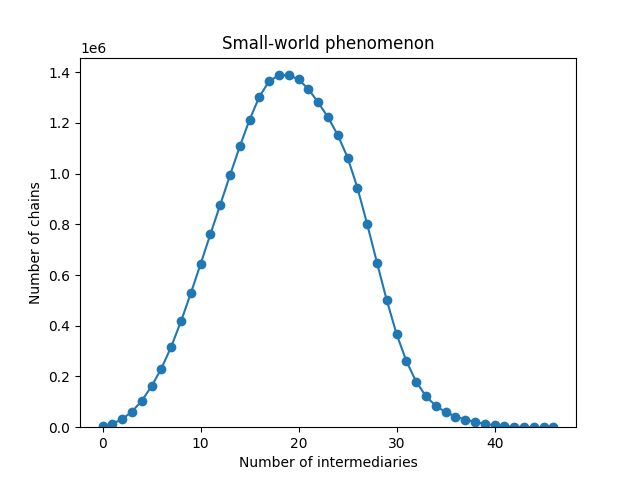
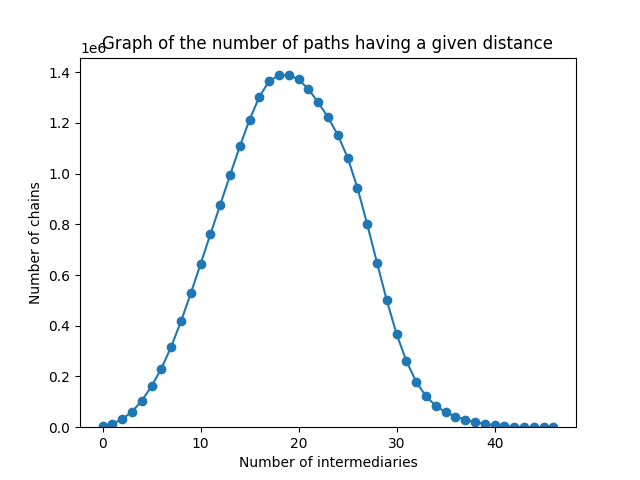
fixed graph

Changed region(s): [[0.1562, 0.0625, 0.875, 0.125]]

diff --git a/template.py b/template.py
@@ -125,7 +125,7 @@ def Q4(dataframe):
     plt.scatter(x, ret)
     plt.plot(x, ret)
     plt.ylim(0)
-    plt.title("Small-world phenomenon")
+    plt.title("Graph of the number of paths having a given distance")
     plt.xlabel("Number of intermediaries")
     plt.ylabel("Number of chains")
     # plt.savefig("small-world_phenomenon.png")
@@ -139,8 +139,7 @@ def Q4(dataframe):
 # Task 5: Betweenness centrality
 def Q5(dataframe):
     # Your code here
-    return [0,
-            0.0]  # the id of the node with the highest betweenness centrality, the associated betweenness centrality value.
+    return [0, 0.0]  # the id of the node with the highest betweenness centrality, the associated betweenness centrality value.
 
 
 # you can write additional functions that can be used in Q1-Q5 functions in the file "template_utils.py", a specific place is available to copy them at the end of the Inginious task.
